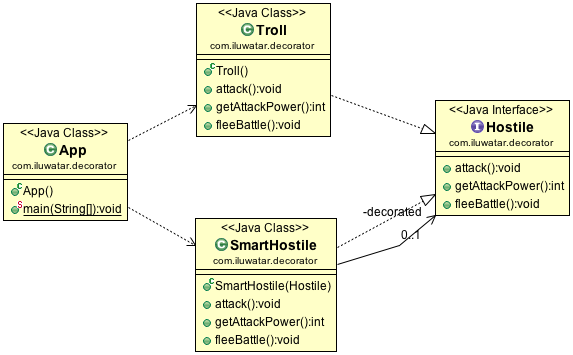
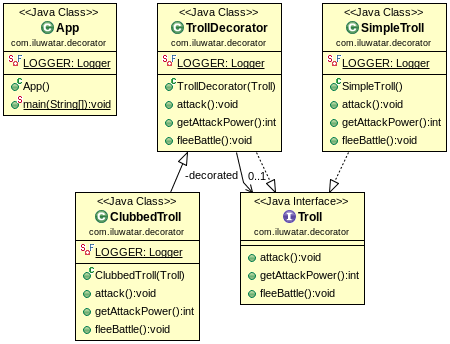
Decorator pattern: Improve the example

diff --git a/decorator/src/test/java/com/iluwatar/decorator/ClubbedTrollTest.java b/decorator/src/test/java/com/iluwatar/decorator/ClubbedTrollTest.java
@@ -1,0 +1,54 @@
+/**
+ * The MIT License
+ * Copyright (c) 2014 Ilkka Seppälä
+ *
+ * Permission is hereby granted, free of charge, to any person obtaining a copy
+ * of this software and associated documentation files (the "Software"), to deal
+ * in the Software without restriction, including without limitation the rights
+ * to use, copy, modify, merge, publish, distribute, sublicense, and/or sell
+ * copies of the Software, and to permit persons to whom the Software is
+ * furnished to do so, subject to the following conditions:
+ *
+ * The above copyright notice and this permission notice shall be included in
+ * all copies or substantial portions of the Software.
+ *
+ * THE SOFTWARE IS PROVIDED "AS IS", WITHOUT WARRANTY OF ANY KIND, EXPRESS OR
+ * IMPLIED, INCLUDING BUT NOT LIMITED TO THE WARRANTIES OF MERCHANTABILITY,
+ * FITNESS FOR A PARTICULAR PURPOSE AND NONINFRINGEMENT. IN NO EVENT SHALL THE
+ * AUTHORS OR COPYRIGHT HOLDERS BE LIABLE FOR ANY CLAIM, DAMAGES OR OTHER
+ * LIABILITY, WHETHER IN AN ACTION OF CONTRACT, TORT OR OTHERWISE, ARISING FROM,
+ * OUT OF OR IN CONNECTION WITH THE SOFTWARE OR THE USE OR OTHER DEALINGS IN
+ * THE SOFTWARE.
+ */
+package com.iluwatar.decorator;
+
+import org.junit.Test;
+
+import static org.junit.Assert.assertEquals;
+import static org.mockito.Mockito.*;
+import static org.mockito.internal.verification.VerificationModeFactory.times;
+
+/**
+ * Tests for {@link ClubbedTroll}
+ */
+public class ClubbedTrollTest {
+
+  @Test
+  public void testSmartHostile() throws Exception {
+    // Create a normal troll first, but make sure we can spy on it later on.
+    final Troll simpleTroll = spy(new SimpleTroll());
+
+    // Now we want to decorate the troll to make it stronger ...
+    final Troll clubbed = new ClubbedTroll(simpleTroll);
+    assertEquals(20, clubbed.getAttackPower());
+    verify(simpleTroll, times(1)).getAttackPower();
+
+    // Check if the clubbed troll actions are delegated to the decorated troll
+    clubbed.attack();
+    verify(simpleTroll, times(1)).attack();
+
+    clubbed.fleeBattle();
+    verify(simpleTroll, times(1)).fleeBattle();
+    verifyNoMoreInteractions(simpleTroll);
+  }
+}

diff --git a/decorator/src/main/java/com/iluwatar/decorator/SimpleTroll.java b/decorator/src/main/java/com/iluwatar/decorator/SimpleTroll.java
@@ -1,0 +1,51 @@
+/**
+ * The MIT License
+ * Copyright (c) 2014 Ilkka Seppälä
+ *
+ * Permission is hereby granted, free of charge, to any person obtaining a copy
+ * of this software and associated documentation files (the "Software"), to deal
+ * in the Software without restriction, including without limitation the rights
+ * to use, copy, modify, merge, publish, distribute, sublicense, and/or sell
+ * copies of the Software, and to permit persons to whom the Software is
+ * furnished to do so, subject to the following conditions:
+ *
+ * The above copyright notice and this permission notice shall be included in
+ * all copies or substantial portions of the Software.
+ *
+ * THE SOFTWARE IS PROVIDED "AS IS", WITHOUT WARRANTY OF ANY KIND, EXPRESS OR
+ * IMPLIED, INCLUDING BUT NOT LIMITED TO THE WARRANTIES OF MERCHANTABILITY,
+ * FITNESS FOR A PARTICULAR PURPOSE AND NONINFRINGEMENT. IN NO EVENT SHALL THE
+ * AUTHORS OR COPYRIGHT HOLDERS BE LIABLE FOR ANY CLAIM, DAMAGES OR OTHER
+ * LIABILITY, WHETHER IN AN ACTION OF CONTRACT, TORT OR OTHERWISE, ARISING FROM,
+ * OUT OF OR IN CONNECTION WITH THE SOFTWARE OR THE USE OR OTHER DEALINGS IN
+ * THE SOFTWARE.
+ */
+package com.iluwatar.decorator;
+
+import org.slf4j.Logger;
+import org.slf4j.LoggerFactory;
+
+/**
+ * 
+ * SimpleTroll implements {@link Troll} interface directly.
+ *
+ */
+public class SimpleTroll implements Troll {
+
+  private static final Logger LOGGER = LoggerFactory.getLogger(SimpleTroll.class);
+
+  @Override
+  public void attack() {
+    LOGGER.info("The troll tries to grab you!");
+  }
+
+  @Override
+  public int getAttackPower() {
+    return 10;
+  }
+
+  @Override
+  public void fleeBattle() {
+    LOGGER.info("The troll shrieks in horror and runs away!");
+  }
+}

diff --git a/decorator/src/main/java/com/iluwatar/decorator/ClubbedTroll.java b/decorator/src/main/java/com/iluwatar/decorator/ClubbedTroll.java
@@ -22,37 +22,28 @@
  */
 package com.iluwatar.decorator;
 
-import org.junit.Test;
-
-import static org.junit.Assert.assertEquals;
-import static org.mockito.Mockito.*;
-import static org.mockito.internal.verification.VerificationModeFactory.times;
+import org.slf4j.Logger;
+import org.slf4j.LoggerFactory;
 
 /**
- * Date: 12/7/15 - 7:47 PM
- *
- * @author Jeroen Meulemeester
+ * Decorator that adds a club for the troll
  */
-public class SmartHostileTest {
+public class ClubbedTroll extends TrollDecorator {
 
-  @Test
-  public void testSmartHostile() throws Exception {
-    // Create a normal troll first, but make sure we can spy on it later on.
-    final Hostile simpleTroll = spy(new Troll());
+  private static final Logger LOGGER = LoggerFactory.getLogger(ClubbedTroll.class);
 
-    // Now we want to decorate the troll to make it smarter ...
-    final Hostile smartTroll = new SmartHostile(simpleTroll);
-    assertEquals(30, smartTroll.getAttackPower());
-    verify(simpleTroll, times(1)).getAttackPower();
-
-    // Check if the smart troll actions are delegated to the decorated troll
-    smartTroll.attack();
-    verify(simpleTroll, times(1)).attack();
-
-    smartTroll.fleeBattle();
-    verify(simpleTroll, times(1)).fleeBattle();
-    verifyNoMoreInteractions(simpleTroll);
-
+  public ClubbedTroll(Troll decorated) {
+    super(decorated);
   }
 
+  @Override
+  public void attack() {
+    super.attack();
+    LOGGER.info("The troll swings at you with a club!");
+  }
+
+  @Override
+  public int getAttackPower() {
+    return super.getAttackPower() + 10;
+  }
 }

diff --git a/decorator/src/main/java/com/iluwatar/decorator/App.java b/decorator/src/main/java/com/iluwatar/decorator/App.java
@@ -32,8 +32,8 @@ import org.slf4j.LoggerFactory;
  * target. Using the Decorator pattern it is possible to change the behavior of the class during
  * runtime.
  * <p>
- * In this example we show how the simple {@link Troll} first attacks and then flees the battle.
- * Then we decorate the {@link Troll} with a {@link SmartHostile} and perform the attack again. You
+ * In this example we show how the simple {@link SimpleTroll} first attacks and then flees the battle.
+ * Then we decorate the {@link SimpleTroll} with a {@link ClubbedTroll} and perform the attack again. You
  * can see how the behavior changes after the decoration.
  * 
  */
@@ -50,16 +50,16 @@ public class App {
 
     // simple troll
     LOGGER.info("A simple looking troll approaches.");
-    Hostile troll = new Troll();
+    Troll troll = new SimpleTroll();
     troll.attack();
     troll.fleeBattle();
     LOGGER.info("Simple troll power {}.\n", troll.getAttackPower());
 
     // change the behavior of the simple troll by adding a decorator
-    LOGGER.info("A smart looking troll surprises you.");
-    Hostile smart = new SmartHostile(troll);
-    smart.attack();
-    smart.fleeBattle();
-    LOGGER.info("Smart troll power {}.\n", smart.getAttackPower());
+    LOGGER.info("A troll with huge club surprises you.");
+    Troll clubbed = new ClubbedTroll(troll);
+    clubbed.attack();
+    clubbed.fleeBattle();
+    LOGGER.info("Clubbed troll power {}.\n", clubbed.getAttackPower());
   }
 }

diff --git a/decorator/src/main/java/com/iluwatar/decorator/TrollDecorator.java b/decorator/src/main/java/com/iluwatar/decorator/TrollDecorator.java
@@ -22,40 +22,32 @@
  */
 package com.iluwatar.decorator;
 
-import org.slf4j.Logger;
-import org.slf4j.LoggerFactory;
-
 /**
- * SmartHostile is a decorator for {@link Hostile} objects. The calls to the {@link Hostile} interface
- * are intercepted and decorated. Finally the calls are delegated to the decorated {@link Hostile}
+ * TrollDecorator is a decorator for {@link Troll} objects. The calls to the {@link Troll} interface
+ * are intercepted and decorated. Finally the calls are delegated to the decorated {@link Troll}
  * object.
  *
  */
-public class SmartHostile implements Hostile {
+public class TrollDecorator implements Troll {
 
-  private static final Logger LOGGER = LoggerFactory.getLogger(SmartHostile.class);
+  private Troll decorated;
 
-  private Hostile decorated;
-
-  public SmartHostile(Hostile decorated) {
+  public TrollDecorator(Troll decorated) {
     this.decorated = decorated;
   }
 
   @Override
   public void attack() {
-    LOGGER.info("It throws a rock at you!");
     decorated.attack();
   }
 
   @Override
   public int getAttackPower() {
-    // decorated hostile's power + 20 because it is smart
-    return decorated.getAttackPower() + 20;
+    return decorated.getAttackPower();
   }
 
   @Override
   public void fleeBattle() {
-    LOGGER.info("It calls for help!");
     decorated.fleeBattle();
   }
 }

diff --git a/decorator/src/test/java/com/iluwatar/decorator/SimpleTrollTest.java b/decorator/src/test/java/com/iluwatar/decorator/SimpleTrollTest.java
@@ -36,17 +36,15 @@ import java.util.List;
 import static org.junit.Assert.assertEquals;
 
 /**
- * Date: 12/7/15 - 7:26 PM
- *
- * @author Jeroen Meulemeester
+ * Tests for {@link SimpleTroll}
  */
-public class TrollTest {
+public class SimpleTrollTest {
 
   private InMemoryAppender appender;
 
   @Before
   public void setUp() {
-    appender = new InMemoryAppender(Troll.class);
+    appender = new InMemoryAppender(SimpleTroll.class);
   }
 
   @After
@@ -56,11 +54,11 @@ public class TrollTest {
 
   @Test
   public void testTrollActions() throws Exception {
-    final Troll troll = new Troll();
+    final SimpleTroll troll = new SimpleTroll();
     assertEquals(10, troll.getAttackPower());
 
     troll.attack();
-    assertEquals("The troll swings at you with a club!", appender.getLastMessage());
+    assertEquals("The troll tries to grab you!", appender.getLastMessage());
 
     troll.fleeBattle();
     assertEquals("The troll shrieks in horror and runs away!", appender.getLastMessage());

diff --git a/decorator/src/main/java/com/iluwatar/decorator/Troll.java b/decorator/src/main/java/com/iluwatar/decorator/Troll.java
@@ -22,30 +22,17 @@
  */
 package com.iluwatar.decorator;
 
-import org.slf4j.Logger;
-import org.slf4j.LoggerFactory;
-
 /**
  * 
- * Troll implements {@link Hostile} interface directly.
+ * Interface for trolls
  *
  */
-public class Troll implements Hostile {
+public interface Troll {
 
-  private static final Logger LOGGER = LoggerFactory.getLogger(Troll.class);
+  void attack();
 
-  @Override
-  public void attack() {
-    LOGGER.info("The troll swings at you with a club!");
-  }
+  int getAttackPower();
 
-  @Override
-  public int getAttackPower() {
-    return 10;
-  }
+  void fleeBattle();
 
-  @Override
-  public void fleeBattle() {
-    LOGGER.info("The troll shrieks in horror and runs away!");
-  }
 }

diff --git a/decorator/README.md b/decorator/README.md
@@ -24,9 +24,9 @@ functionality.
 ## Applicability
 Use Decorator
 
-* to add responsibilities to individual objects dynamically and transparently, that is, without affecting other objects
-* for responsibilities that can be withdrawn
-* when extension by subclassing is impractical. Sometimes a large number of independent extensions are possible and would produce an explosion of subclasses to support every combination. Or a class definition may be hidden or otherwise unavailable for subclassing
+* To add responsibilities to individual objects dynamically and transparently, that is, without affecting other objects
+* For responsibilities that can be withdrawn
+* When extension by subclassing is impractical. Sometimes a large number of independent extensions are possible and would produce an explosion of subclasses to support every combination. Or a class definition may be hidden or otherwise unavailable for subclassing
 
 ## Real world examples
  * [java.io.InputStream](http://docs.oracle.com/javase/8/docs/api/java/io/InputStream.html), [java.io.OutputStream](http://docs.oracle.com/javase/8/docs/api/java/io/OutputStream.html),
